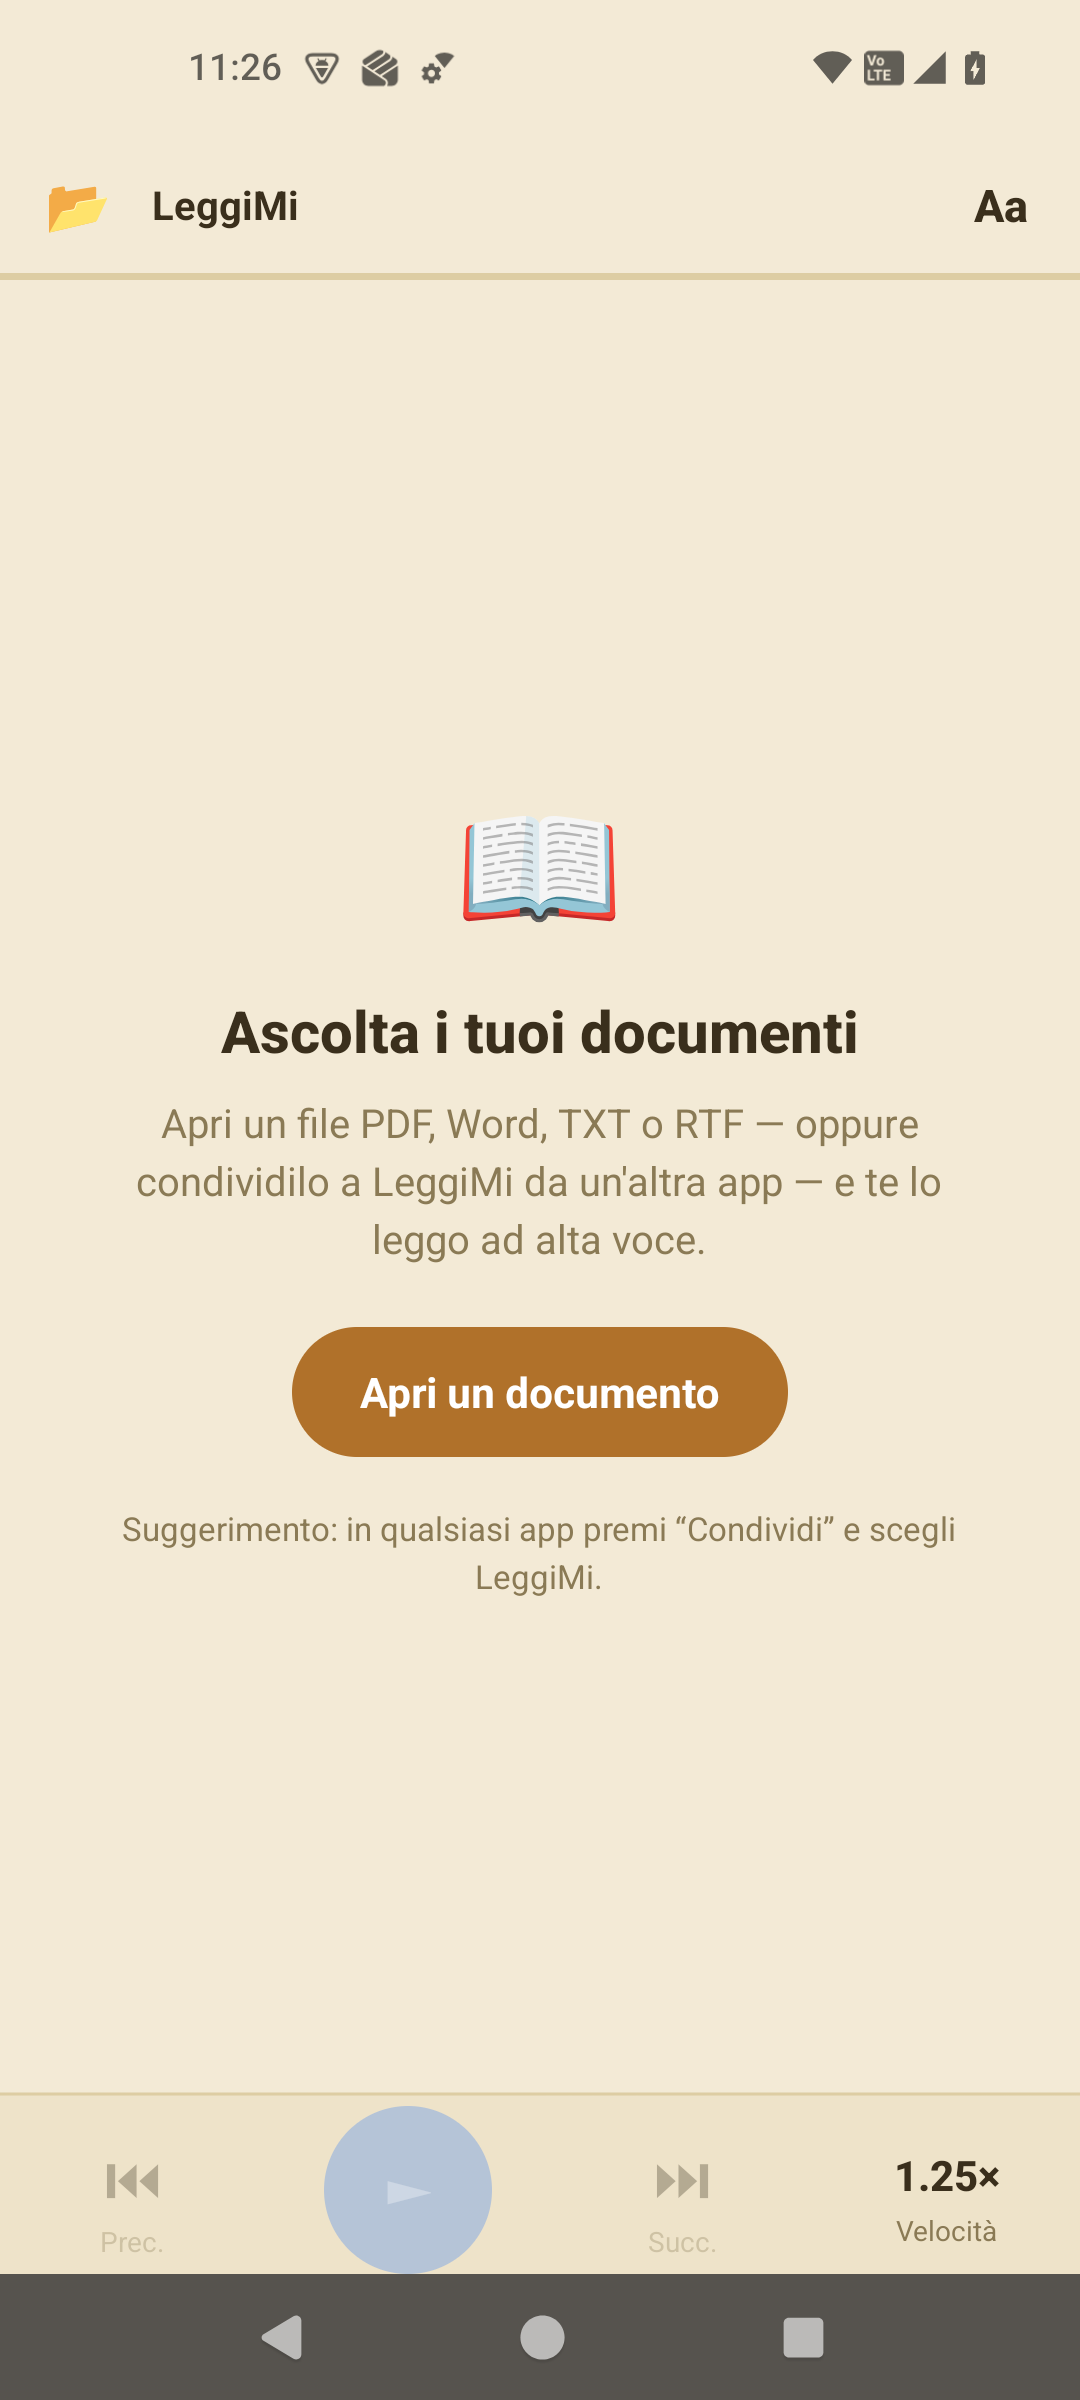
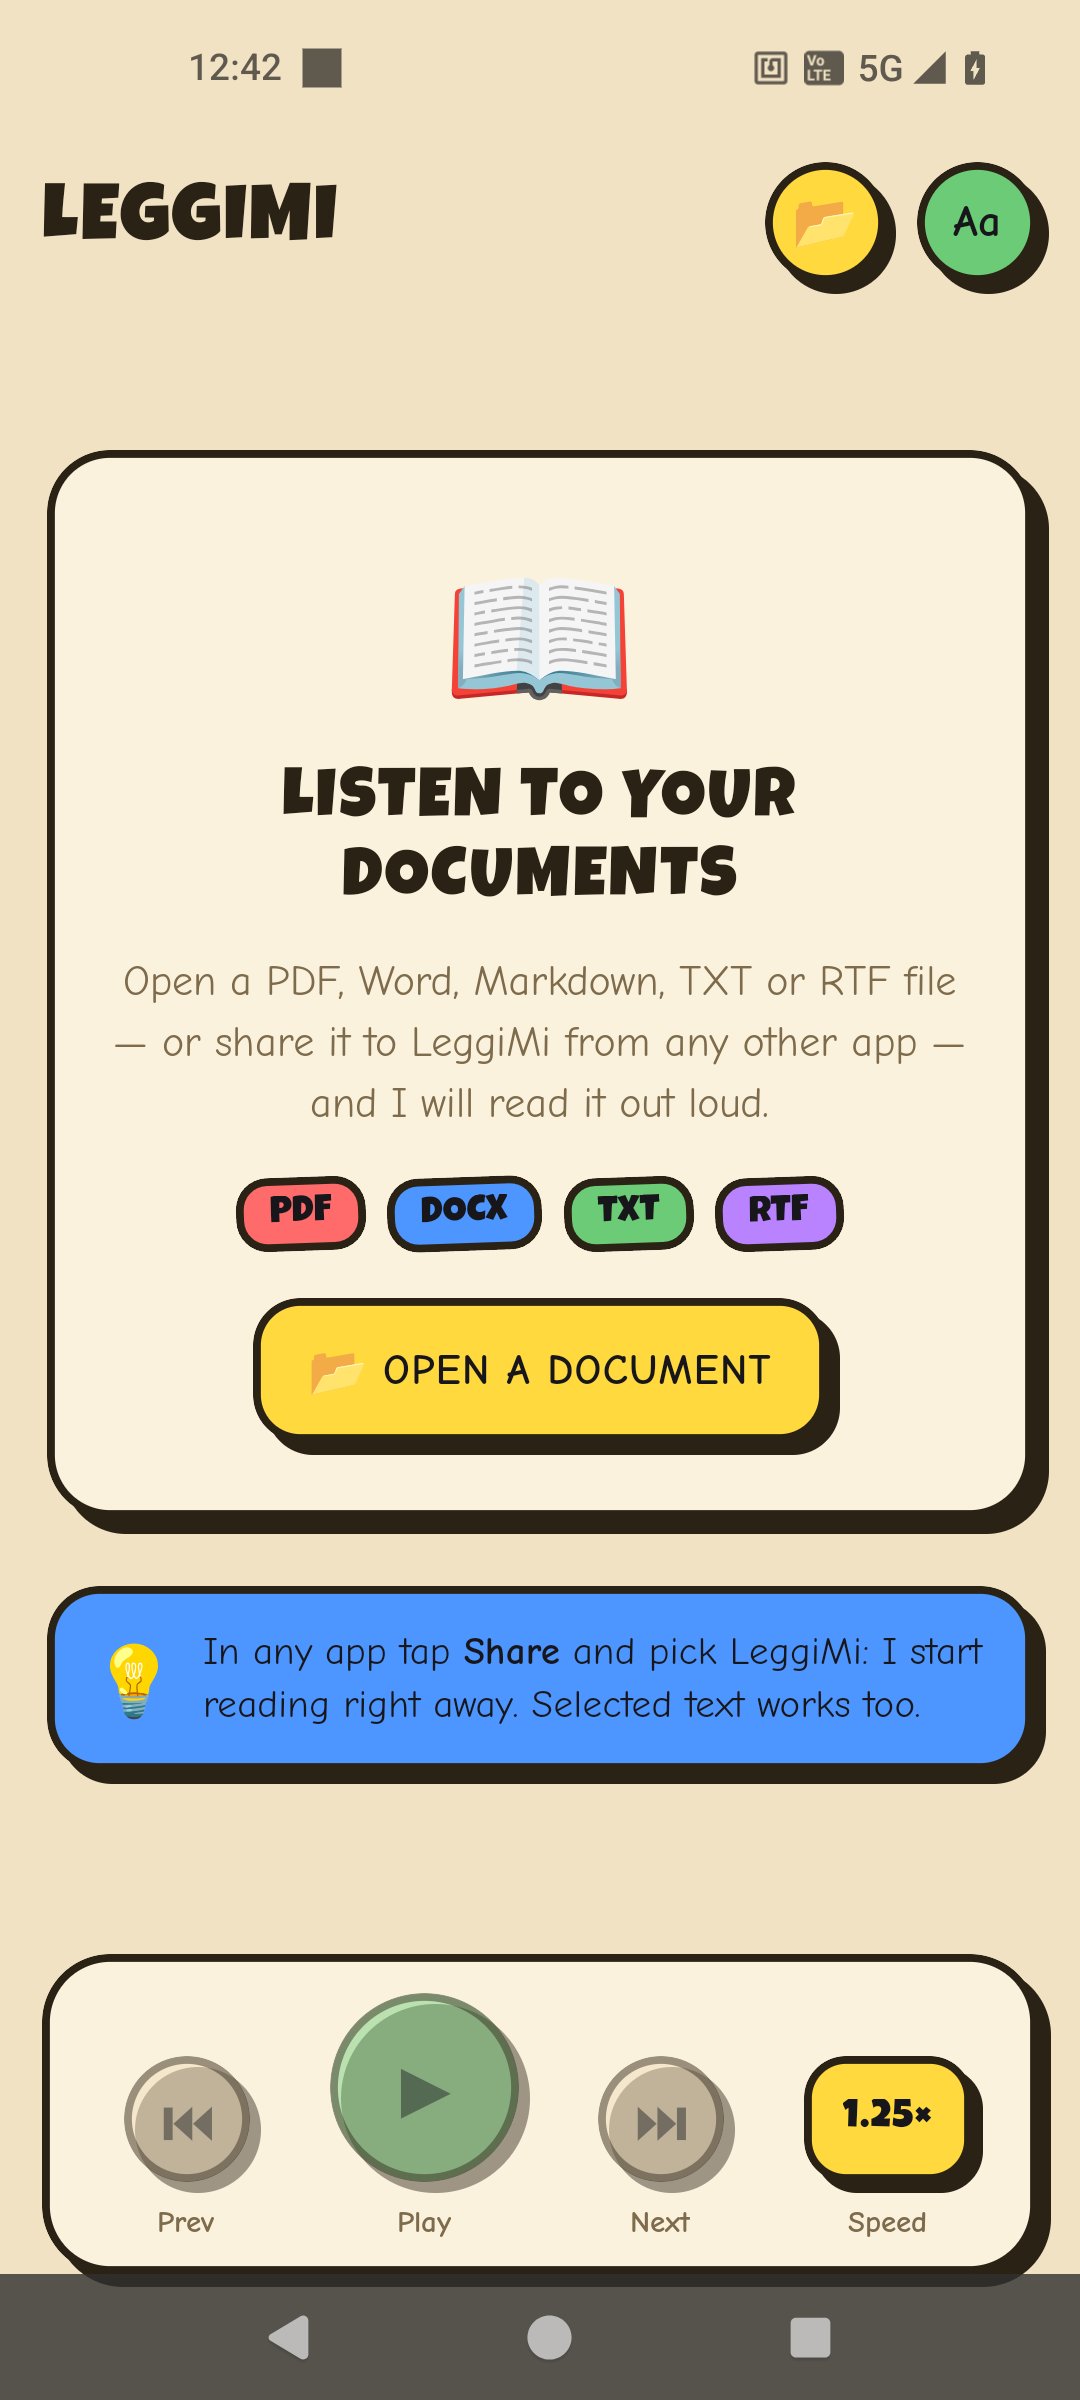
README: nuovo look comic, blocchi Markdown, voci multilingua, condivisione testo

diff --git a/README.md b/README.md
@@ -1,30 +1,33 @@
 # LeggiMi
 
-**Listen to your documents.** LeggiMi is an offline text‑to‑speech reader for Android: open (or *share*) a PDF, Word, TXT or RTF file and it reads it aloud, highlighting each sentence as it goes — like karaoke for documents.
+**Listen to your documents.** LeggiMi is an offline text‑to‑speech reader for Android: open (or *share*) a PDF, Word, Markdown, TXT or RTF file — or plain text from any app — and it reads it aloud, highlighting each block as it goes — like karaoke for documents. It wears the same comic look as its sibling app *Pay & Plan*.
 
 <p align="center">
-  <img src="docs/home.png" alt="LeggiMi home screen" width="280" />
+  <img src="docs/home.png" alt="LeggiMi home screen" width="260" />
+  <img src="docs/reader.png" alt="Reading a PDF" width="260" />
+  <img src="docs/markdown.png" alt="Shared Markdown text" width="260" />
 </p>
 
 ## Features
 
 - **Reads many formats** — PDF, DOCX (Word), RTF, TXT, Markdown and other plain‑text files.
-- **Share from any app** — send a file to LeggiMi from another app and it opens and starts reading automatically.
-- **Sentence karaoke** — the sentence being spoken is highlighted and the view auto‑scrolls to follow along; tap any sentence to start reading from there.
-- **Comfortable reader** — light / dark / sepia themes and an adjustable text size.
-- **Playback controls** — play / pause, previous / next sentence, and a one‑tap speed control (0.75×–2.0×).
+- **Share from any app** — send a file, or just selected text, to LeggiMi from another app and it opens and starts reading automatically.
+- **Block karaoke** — the block being spoken becomes a yellow sticker and the view auto‑scrolls to follow along; tap any block to start reading from there.
+- **Readable blocks** — documents are split into Markdown‑aware blocks: headings, bullet and numbered lists, quotes, bold / italic / code / links are rendered, while the voice reads the clean text.
+- **Comfortable reader** — comic‑style light / sepia / dark themes (Luckiest Guy + Comic Neue) and an adjustable text size.
+- **Playback controls** — play / pause, previous / next block, and a one‑tap speed control (0.75×–2.0×).
 - **Resume where you left off** — reading position is saved per document.
 - **Chapter / section index** — auto‑detected headings (or evenly split parts) in a slide‑up table of contents.
-- **Pick your voice** — choose among the Italian TTS voices installed on the phone, preview them with one tap, or install more.
+- **Pick your voice** — choose among all TTS voices installed on the phone (the phone's language first), preview them with one tap, or install more.
 - **Works offline** — text extraction (including PDF) runs entirely on the device; no network required.
 
 ## How it works
 
-- **PDF** — text is extracted on‑device by [pdf.js](https://mozilla.github.io/pdf.js/) running in a hidden, offline WebView (the library ships in `android/app/src/main/assets/pdfjs/`).
+- **PDF** — text is extracted on‑device by [pdf.js](https://mozilla.github.io/pdf.js/) running in a hidden, offline WebView (the library ships in `android/app/src/main/assets/pdfjs/`). Lines and paragraphs are rebuilt from the glyph positions, so chapter titles are recognised and tables of contents, page numbers and repeated headers are dropped; lines wrapped by the page layout are joined back into sentences.
 - **DOCX** — the `.docx` archive is unzipped with [JSZip](https://stuk.github.io/jszip/) and text is pulled from `word/document.xml`.
-- **RTF / TXT / Markdown** — read directly, with light cleanup (de‑hyphenation, removing repeated headers/footers and page numbers).
-- **Speech** — the extracted text is split into sentences and spoken with the device's TTS engine via [react-native-tts](https://github.com/ak1394/react-native-tts). The default reading language is Italian (`it-IT`).
-- **Sharing** — incoming files are received with [react-native-receive-sharing-intent](https://github.com/Sairyss/react-native-receive-sharing-intent); the activity uses `singleTask` + `onNewIntent` so shares are caught whether the app is closed or already open.
+- **RTF / TXT / Markdown** — read directly; Markdown syntax is honoured (headings open chapters, list items become their own blocks). Text extracted from PDF/DOCX gets de‑hyphenation, header/footer and page‑number removal, and detected titles are promoted to headings.
+- **Speech** — each block is stripped of Markdown syntax and spoken with the device's TTS engine via [react-native-tts](https://github.com/ak1394/react-native-tts). The default reading language is the phone's locale; pick any installed voice to override it.
+- **Sharing** — incoming files and text are received with [react-native-receive-sharing-intent](https://github.com/Sairyss/react-native-receive-sharing-intent); the activity uses `singleTask` + `onNewIntent`, and the app polls the native module a few times after start (the library asks only once, which loses shares on a cold start), so shares are caught whether the app is closed or already open.
 
 ## Getting started
 
@@ -62,17 +65,17 @@ The output APK is at `android/app/build/outputs/apk/release/app-release.apk`.
 
 ## Using the app
 
-1. Tap the folder icon (top‑left) to open a document, or **Share** a file to LeggiMi from any other app.
-2. Press **▶** to start; tap any sentence to jump there.
+1. Tap the 📂 button (top‑right) to open a document, or **Share** a file — or selected text — to LeggiMi from any other app.
+2. Press **▶** to start; tap any block to jump there.
 3. Tap **Aa** (top‑right) for theme, text size, reading speed and **voice**.
 4. The **☰** icon opens the chapter/section index when available.
 
 ### Voices
-LeggiMi reads in Italian by default. To choose or add a voice: **Aa → Voce**. Tap a voice to hear a short preview; your choice is saved automatically. Use **“+ Installa altre voci…”** to download additional / higher‑quality voices from Android's text‑to‑speech settings. If no Italian voice is installed, install one there first.
+LeggiMi reads with the phone's language by default. To choose or add a voice: **Aa → Voice**. Voices are listed as “Language · code” with the phone's language first; tap one to hear a short preview, your choice is saved automatically. Use **“Install more voices…”** to download additional / higher‑quality voices from Android's text‑to‑speech settings.
 
 ## Tech stack
 
-React Native 0.83 (New Architecture / Fabric, Hermes) · react-native-tts · pdf.js · JSZip · react-native-receive-sharing-intent · react-native-webview · AsyncStorage · react-native-safe-area-context.
+React Native 0.83 (New Architecture / Fabric, Hermes) · react-native-tts · pdf.js · JSZip · react-native-receive-sharing-intent · react-native-webview · AsyncStorage · react-native-safe-area-context. Fonts: [Luckiest Guy](https://fonts.google.com/specimen/Luckiest+Guy) and [Comic Neue](https://fonts.google.com/specimen/Comic+Neue) (OFL), bundled in `android/app/src/main/assets/fonts/`.
 
 ## Project structure
 
@@ -81,9 +84,11 @@ App.tsx                         # the entire app (UI, extraction, TTS, sharing)
 index.js                        # entry point
 android/                        # native Android project
   app/src/main/assets/pdfjs/    # offline pdf.js for PDF text extraction
+  app/src/main/assets/fonts/    # Luckiest Guy + Comic Neue (comic look)
   app/src/main/java/.../MainActivity.kt
 ```
 
 ## Notes
 - Scanned/image‑only PDFs have no embedded text, so they can't be read without OCR (not included).
 - The app requests no storage permission; shared files are copied into the app cache before reading.
+- Shared links are not fetched (yet): share the page text or a file instead.
